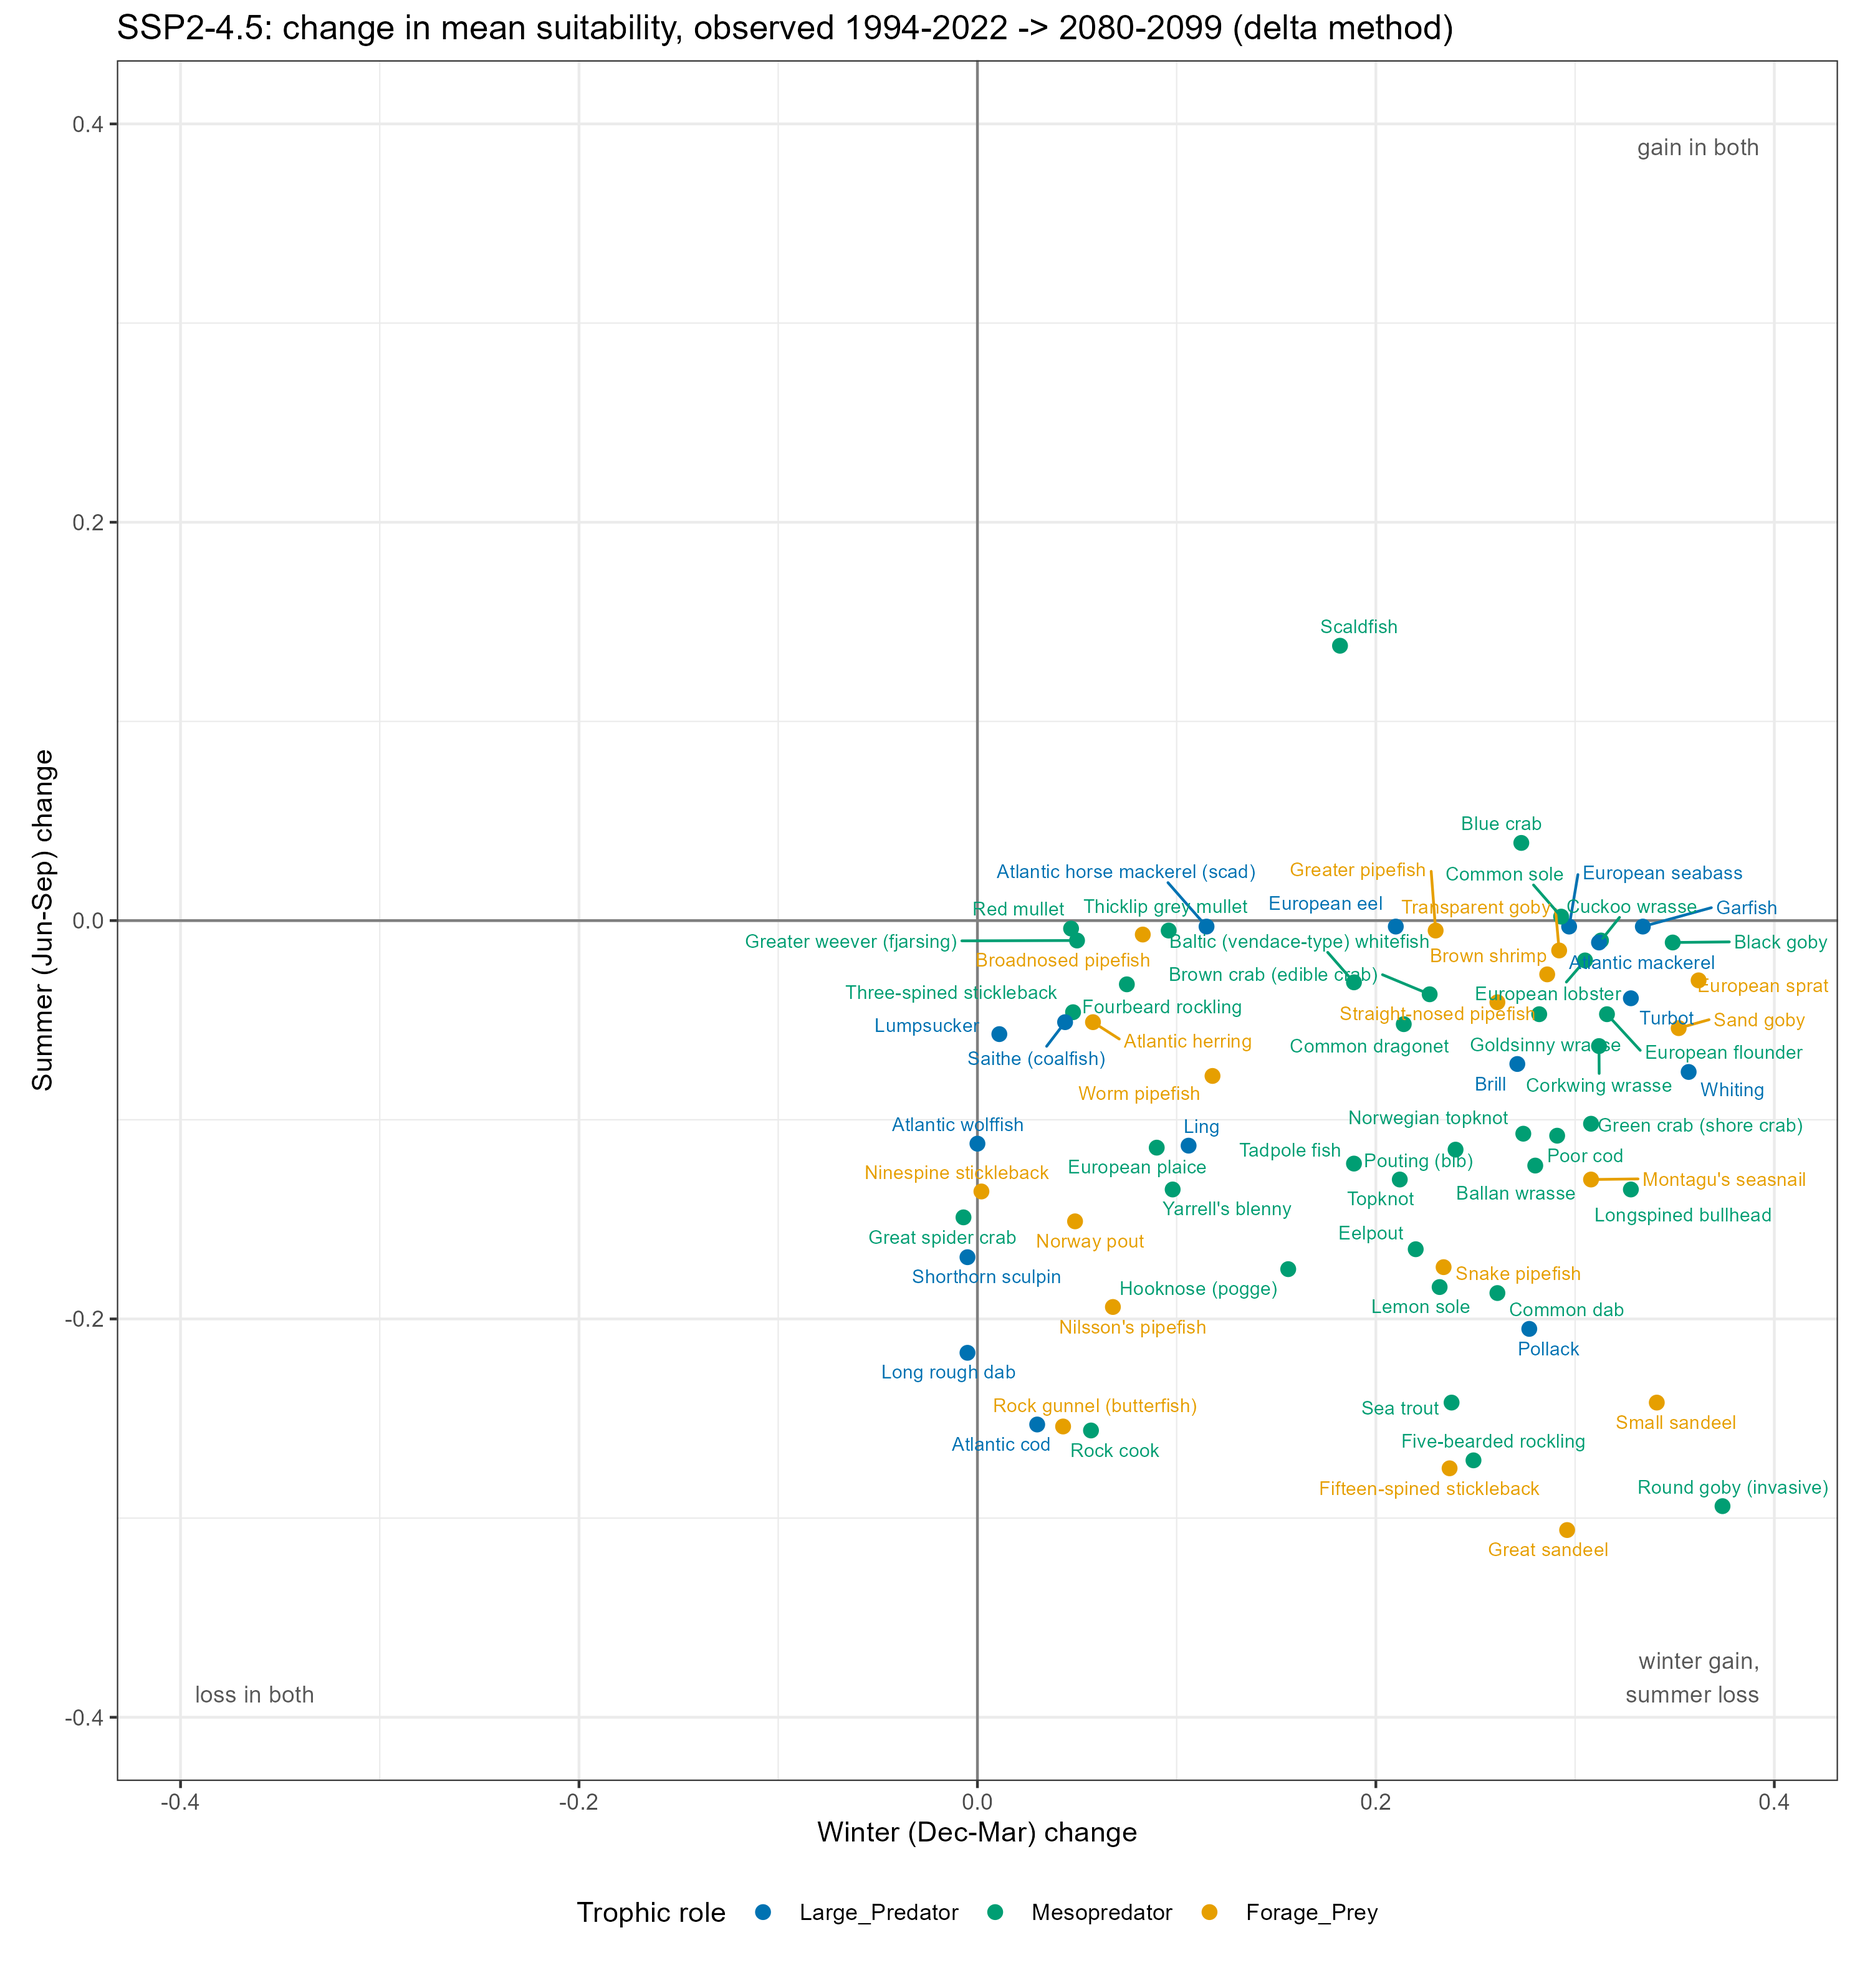
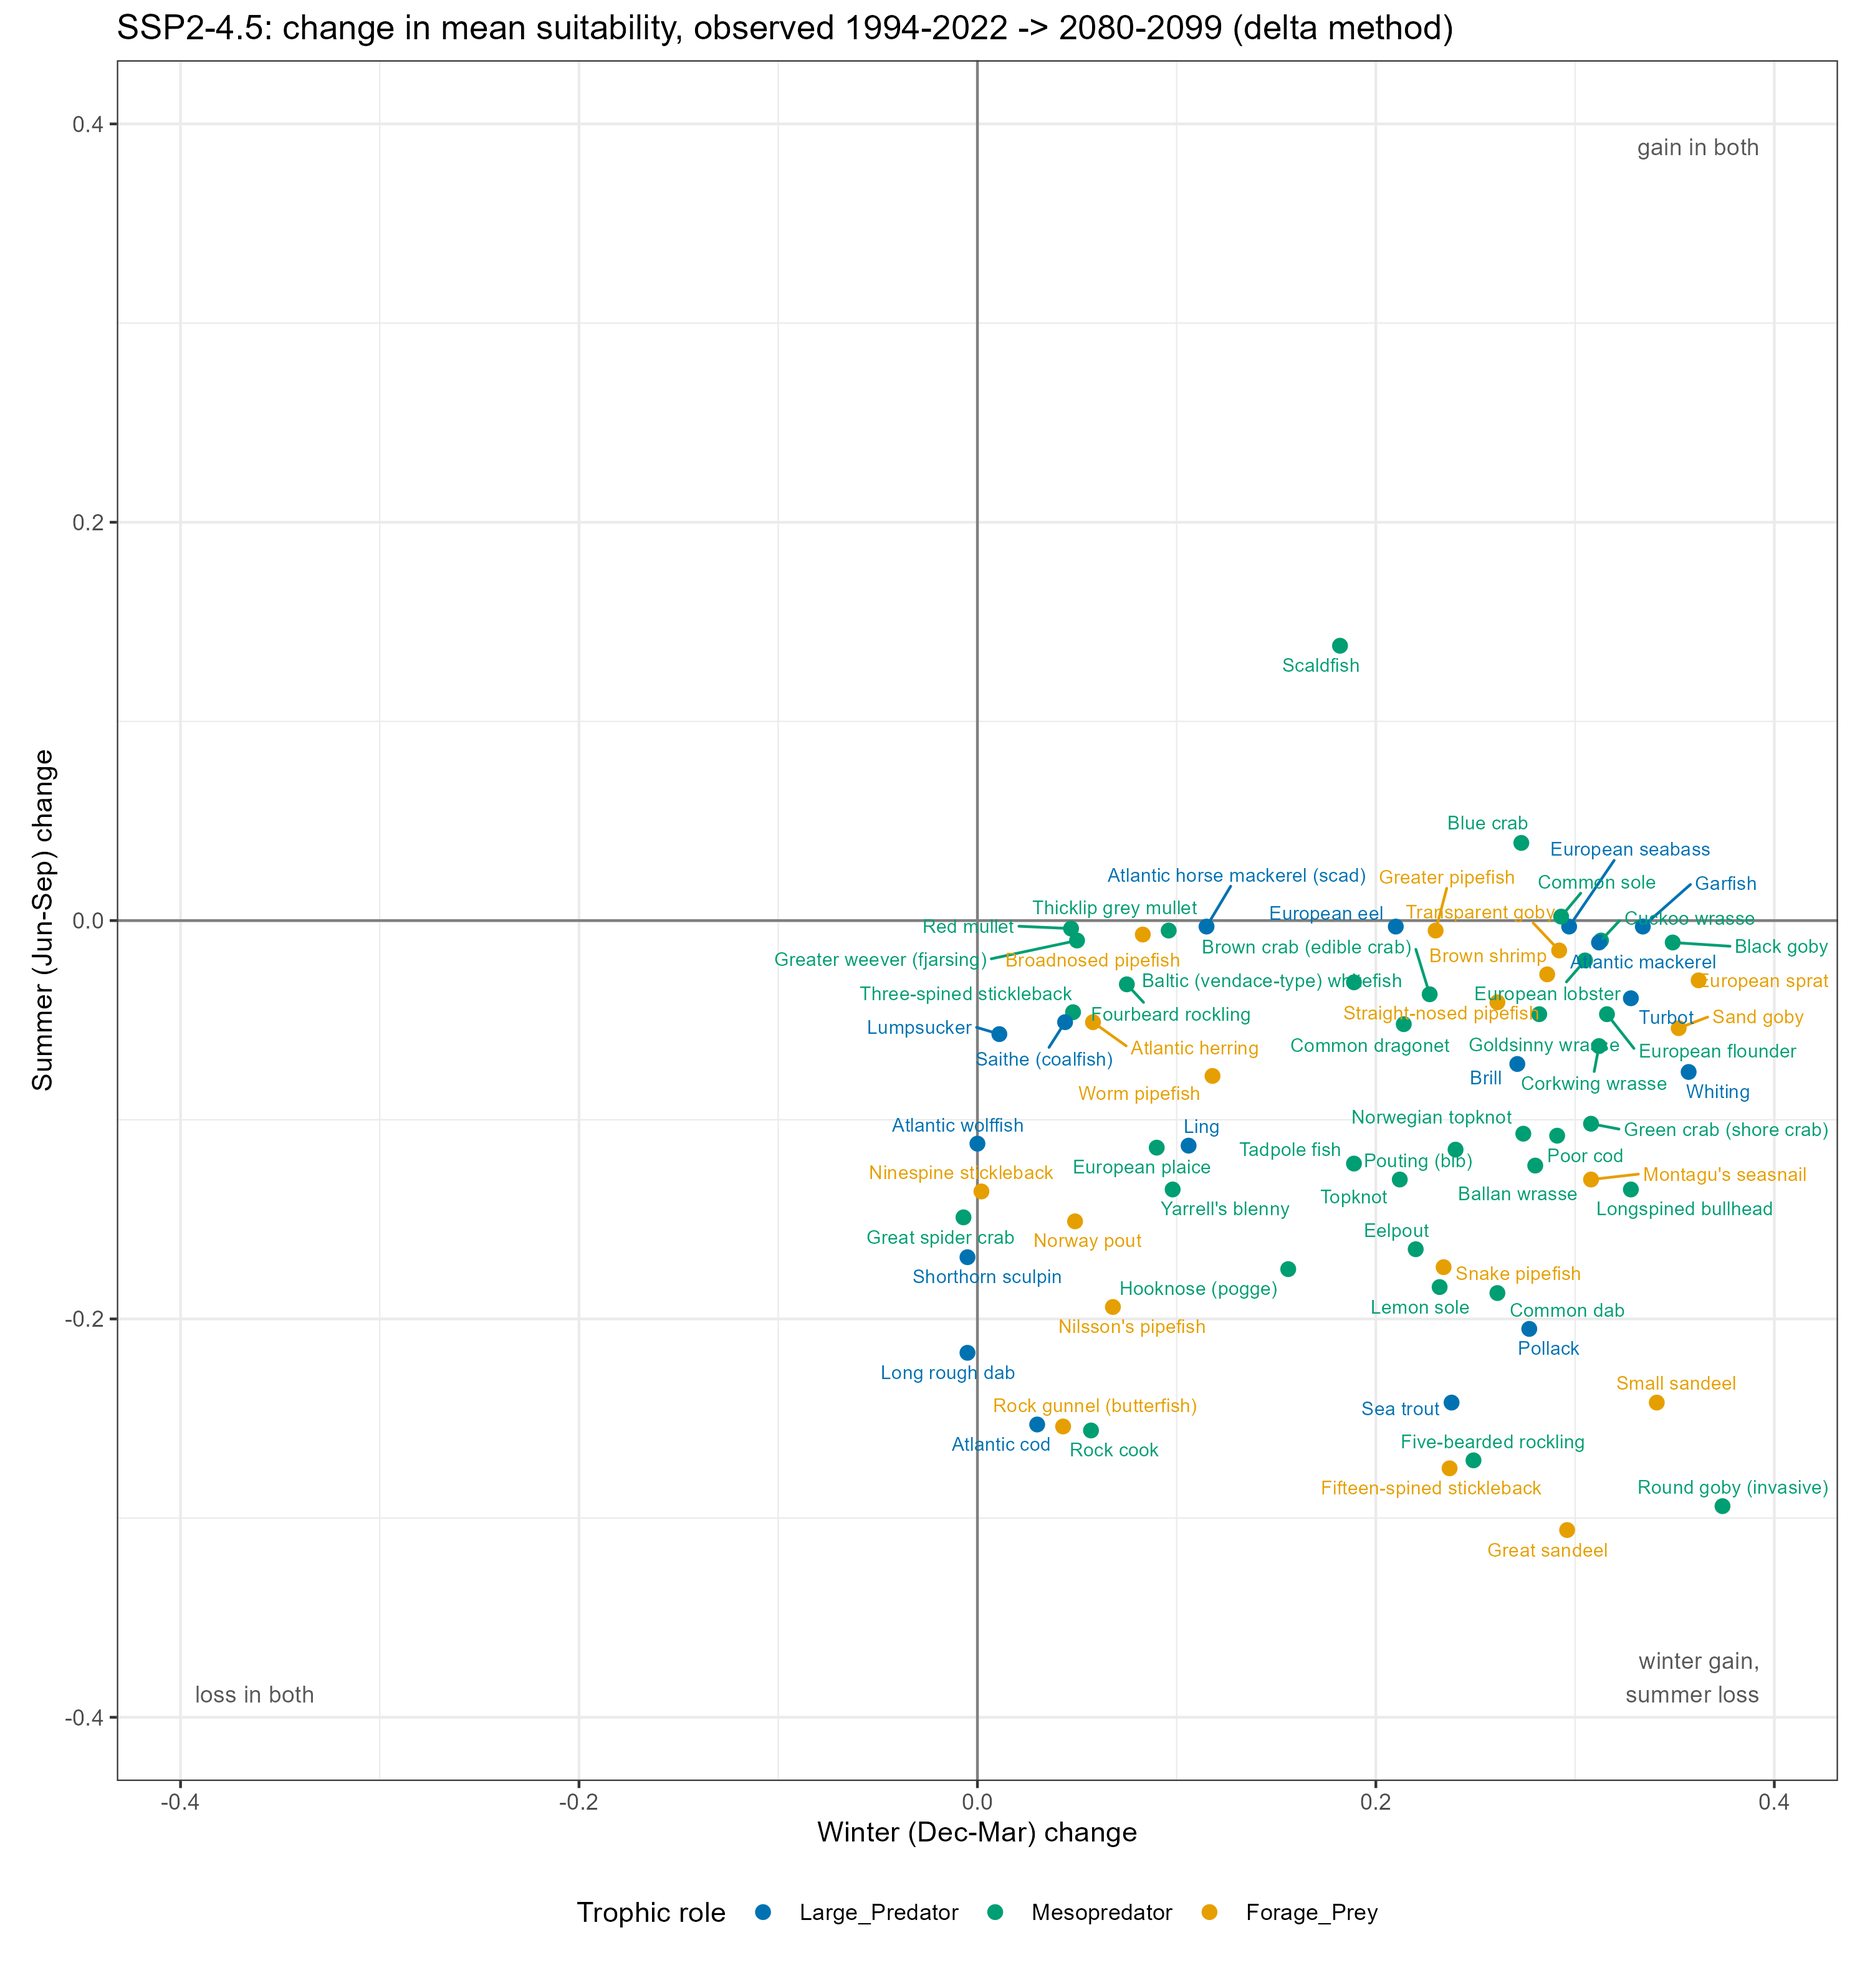
Biogeographic Affinity tab (boreal / non-boreal); sea trout as Large Predator; refreshed role figures

diff --git a/index.html b/index.html
@@ -13,6 +13,7 @@
 
   <nav class="tabs">
     <button class="tab-btn" data-tab="trends">Role Trends by Season (1994-2099)</button>
+    <button class="tab-btn" data-tab="affinity">Biogeographic Affinity</button>
     <button class="tab-btn active" data-tab="animation">Monthly Suitability Animation</button>
     <button class="tab-btn" data-tab="future">Future Projections (2026-2099)</button>
     <button class="tab-btn disabled" data-tab="seasonal" disabled>Annual Seasonal Cycle</button>
@@ -30,18 +31,53 @@
         under SSP2-4.5 and SSP5-8.5. Thin lines = single years, bold = 10-year rolling mean.</p>
       </div>
       <p class="caption">Role-average mean suitability by season.</p>
-      <img class="result-img" src="assets/summary/role_season_timeseries.png?v=3" alt="Role-average suitability by season, 1994-2099">
+      <img class="result-img" src="assets/summary/role_season_timeseries.png?v=4" alt="Role-average suitability by season, 1994-2099">
       <p class="caption">Case-study species (Atlantic cod, goldsinny wrasse, blue crab): mean suitability by season.
       % change from the observed 1994-2003 baseline (own y-axis per season). Cod loses mainly in summer, while its winter is already near optimal; goldsinny and blue crab gain mainly in winter.</p>
-      <img class="result-img" src="assets/summary/case_study_season_timeseries.png?v=4" alt="Case-study species suitability by season, 1994-2099">
+      <img class="result-img" src="assets/summary/case_study_season_timeseries.png?v=5" alt="Case-study species suitability by season, 1994-2099">
       <p class="caption">Per species: change in winter (x) versus summer (y) suitability, observed 1994-2022 to 2080-2099.
       Most species sit in the lower right: they gain in winter but lose in summer.</p>
       <div class="side-by-side">
         <div class="side-col side-col-half">
-          <img class="result-img" src="assets/summary/winter_vs_summer_change_SSP245.png?v=3" alt="Winter vs summer change, SSP2-4.5">
+          <img class="result-img" src="assets/summary/winter_vs_summer_change_SSP245.png?v=4" alt="Winter vs summer change, SSP2-4.5">
         </div>
         <div class="side-col side-col-half">
-          <img class="result-img" src="assets/summary/winter_vs_summer_change_SSP585.png?v=3" alt="Winter vs summer change, SSP5-8.5">
+          <img class="result-img" src="assets/summary/winter_vs_summer_change_SSP585.png?v=4" alt="Winter vs summer change, SSP5-8.5">
+        </div>
+      </div>
+    </section>
+
+    <section id="tab-affinity" class="tab-panel">
+      <div class="info-box">
+        <p><strong>Boreal species lose, non-boreal species gain, in every trophic role.</strong> Each species was classified
+        from the literature, independently of the habitat model, as <strong>boreal</strong> (B, cold-water, 31 species),
+        <strong>non-boreal</strong> (NB, Lusitanian or wide Atlantic range, 37 species) or <strong>non-native</strong>
+        (NN: blue crab, round goby; shown but not tested). By 2080-2099 under SSP5-8.5, the median boreal species loses 4% of its
+        whole-year habitat suitability, while the median non-boreal species gains 21% (Wilcoxon p &lt; 0.001). The same split appears
+        within Large Predators, Mesopredators and Forage/Prey (each p = 0.01, Holm-corrected), whereas the trophic roles
+        themselves do not differ (Kruskal-Wallis p = 0.34). Exceptions: 9 boreal species gain (e.g. pollack, sandeels, rocklings)
+        and one non-boreal species loses (rock cook).</p>
+        <p>Affinity sources: Engelhard et al. 2011 (ICES J Mar Sci 68: 580-591; boreal / Lusitanian after Yang 1982) for 61 species;
+        Rogers &amp; Millner 1996 and Vaughan et al. 2026 where Engelhard has no entry; great spider crab after Zimina et al. 2015.
+        Shore crab, brown crab, European lobster and brown shrimp are classified from their geographic range (no published
+        classification exists for these decapods); Baltic whitefish by association with its boreal congener.</p>
+      </div>
+      <p class="caption">Change in whole-year mean suitability per species, observed 1994-2022 to 2080-2099 (SSP5-8.5), as log response ratio
+      (right axis: % change). A: all species; B: within each trophic role. Stars: *** p &lt; 0.001, * p &lt; 0.05.</p>
+      <img class="result-img" src="assets/affinity/boreal_nonboreal_vs_change_SSP585.png?v=1" alt="Habitat change by biogeographic affinity, SSP5-8.5">
+      <p class="caption">Same figure, dot size = catch in the Swedish coastal survey (2000-2024) relative to the most-caught species
+      of the same trophic group.</p>
+      <img class="result-img" src="assets/affinity/boreal_nonboreal_vs_change_SSP585_by_catch.png?v=1" alt="Habitat change by biogeographic affinity, dot size by survey catch">
+      <p class="caption">Decade means per trophic role, split into boreal and non-boreal species: % change from 1994-2022
+      (mean of species log response ratios, 95% CI across species). Grey background = observed decades.</p>
+      <div class="side-by-side">
+        <div class="side-col side-col-half">
+          <p class="caption"><strong>SSP2-4.5</strong></p>
+          <img class="result-img" src="assets/affinity/role_decade_pctchange_by_affinity_SSP245.png?v=1" alt="Decade % change by role and affinity, SSP2-4.5">
+        </div>
+        <div class="side-col side-col-half">
+          <p class="caption"><strong>SSP5-8.5</strong></p>
+          <img class="result-img" src="assets/affinity/role_decade_pctchange_by_affinity_SSP585.png?v=1" alt="Decade % change by role and affinity, SSP5-8.5">
         </div>
       </div>
     </section>
@@ -93,7 +129,7 @@
     projections: delta method with the FutureMares CMIP6 ensemble (Kristiansen &amp; Butenschön 2024).</p>
   </footer>
 
-  <script src="data/species.js?v=4"></script>
+  <script src="data/species.js?v=5"></script>
   <script src="app.js?v=6"></script>
 </body>
 </html>

diff --git a/data/species.js b/data/species.js
@@ -1,7 +1,7 @@
 window.SPECIES_DATA = [
   { common: "Baltic (vendace-type) whitefish", role: "Mesopredator", prefix: "Baltic_vendace_type_whitefish", season: true, future: true },
   { common: "European eel", role: "Large_Predator", prefix: "European_eel", season: true, future: true },
-  { common: "Sea trout", role: "Mesopredator", prefix: "Sea_trout", season: true, future: true },
+  { common: "Sea trout", role: "Large_Predator", prefix: "Sea_trout", season: true, future: true },
   { common: "Atlantic herring", role: "Forage_Prey", prefix: "Atlantic_herring", season: true, future: true },
   { common: "Broadnosed pipefish", role: "Forage_Prey", prefix: "Broadnosed_pipefish", season: true, future: true },
   { common: "Brown shrimp", role: "Forage_Prey", prefix: "Brown_shrimp", season: true, future: true },
